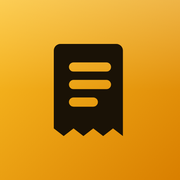
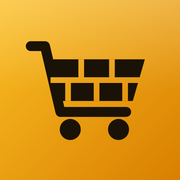
Ridisegna le icone: carrello della cassa pieno di mattoni
Il simbolo ora richiama il lavoro dell'app invece di un'idea generica.
Stessa tessera e stessa tinta di prima.

Changed region(s): [[0.1389, 0.2222, 0.8056, 0.7778]]

diff --git a/sw.js b/sw.js
@@ -7,7 +7,8 @@
 // v2.6.0: componenti condivisi (base.css).
 // v2.6.1: correzione degli arrotondamenti nel calcolo dei prezzi (app.js).
 // v2.6.2: favicon e icona per la schermata Home (index.html, manifest.json).
-const CACHE_NAME = 'magazzino-pos-v2.6.2';
+// v2.6.3: icone ridisegnate (favicon, apple-touch-icon, icon-192/512).
+const CACHE_NAME = 'magazzino-pos-v2.6.3';
 const ASSETS_TO_CACHE = [
   './',
   './index.html',
